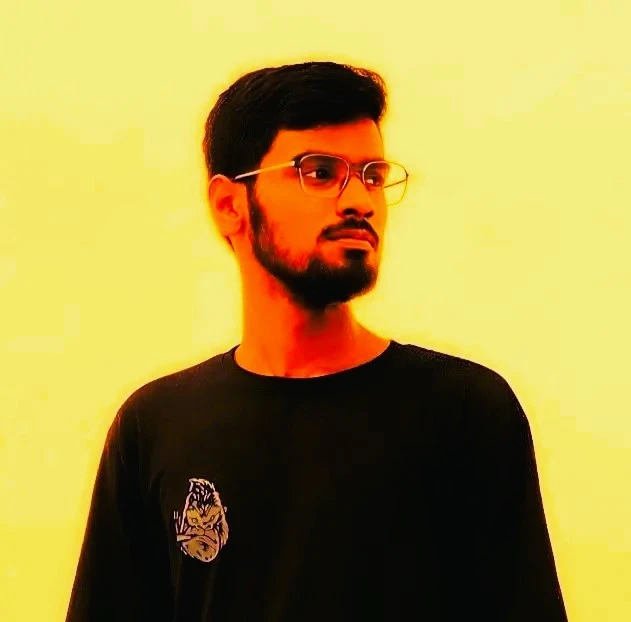
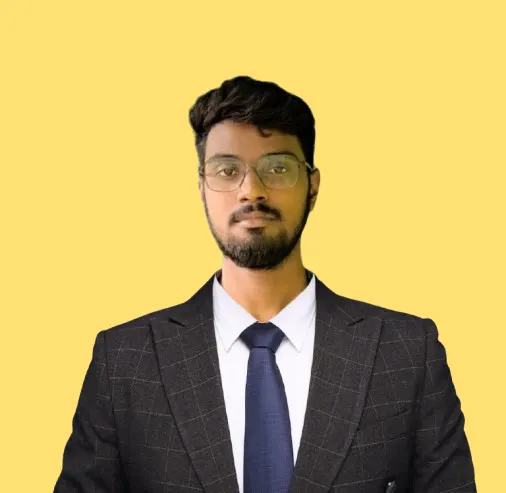
Change image of mine

diff --git a/src/components/one-time-use/feedback/FeedbackCarousel.tsx b/src/components/one-time-use/feedback/FeedbackCarousel.tsx
@@ -1,5 +1,6 @@
 import React, { useState, useEffect } from "react";
 import FeedbackCard from "./FeedbackCard";
+import sliderStyle from '../../../utils/custom-slider/sliderStyle.module.css'
 
 interface FeedbackCarouselProps {
   feedbacks: {
@@ -15,14 +16,14 @@ const FeedbackCarousel: React.FC<FeedbackCarouselProps> = ({ feedbacks }) => {
   const [currentIndex, setCurrentIndex] = useState<number>(0);
 
   const nextCard = () => {
-    setCurrentIndex((prevIndex:number) => (parseInt(`${prevIndex}`) + 1) % feedbacks.length);
+    setCurrentIndex((prevIndex) => (prevIndex + 1) % feedbacks.length);
   };
 
   const prevCard = () => {
-    setCurrentIndex((prevIndex:number) =>
-      parseInt(`${prevIndex}`) === 0 ? feedbacks.length - 1 : parseInt(`${prevIndex}`) - 1 
-    );
-  };
+    setCurrentIndex((prevIndex) =>
+      prevIndex === 0 ? feedbacks.length - 1 : prevIndex - 1
+    );}
+
 
   useEffect(() => {
     const interval = setInterval(() => {
@@ -49,9 +50,20 @@ const FeedbackCarousel: React.FC<FeedbackCarouselProps> = ({ feedbacks }) => {
           </div>
         </div>
 
-        <div className="flex mt-4 space-x-2 font-semibold text-white">
-          {parseInt(`${currentIndex}`) + parseInt("1")}/{feedbacks.length}
-        </div>
+
+              {/* Indicators */}
+      <div className={sliderStyle.carousel_indicators}>
+        {feedbacks.map((_, index) => (
+          <button
+            aria-label={`Custom slider image ${index}`}
+            key={index}
+            className={`${sliderStyle.indicator} ${
+              index === currentIndex ? "active" : ""
+            }`}
+            onClick={() => setCurrentIndex(index)}
+          />
+        ))}
+      </div>
 
         <button
           aria-label="Previous Feedback"

diff --git a/src/components/one-time-use/about-landing-banner/AboutBanner.tsx b/src/components/one-time-use/about-landing-banner/AboutBanner.tsx
@@ -1,5 +1,5 @@
 import React from "react";
-import formalImage from "../../../assets/images/protfolio_formal_image.webp";
+import formalImage from "../../../assets/images/about-image.webp";
 const AboutBanner: React.FC = () => {
   return (
     <main>
@@ -8,7 +8,7 @@ const AboutBanner: React.FC = () => {
           <img
             src={formalImage}
             alt="Kunal Chandra Das formal image"
-            className="rounded-lg max-h-[25rem] pt-0 lg:pt-12"
+            className="rounded-lg max-h-[24rem] pt-0 lg:pt-12"
           />
         </div>
         <div className="h-full lg:max-h-96 overflow-y-scroll rounded-lg">
